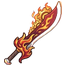
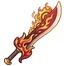
Trang bị: ghép lại găng Linh theo chú thích (1a→1b, 2a→2b), trả lưỡi đao Thần, găng Thánh xoá vòng sáng theo nét viền
Claude-Session: https://claude.ai/code/session_014A94BHnyL4tu48AS77QbVM

diff --git a/src/config/items.ts b/src/config/items.ts
@@ -190,7 +190,7 @@ export function weaponHoldSrc(it: Pick<ItemInst, 'weaponId' | 'tier'>, img = 'he
 }
 
 /** Đổi số này khi vẽ lại hình trang bị để trình duyệt tải bản mới */
-export const GEAR_ART_V = 16;
+export const GEAR_ART_V = 17;
 
 export interface BibaoDef {
   id: string;

diff --git a/tools/art/gear_from_ai.py b/tools/art/gear_from_ai.py
@@ -21,7 +21,7 @@ G3 = [(0, 0), (1, 0), (2, 0), (0, 1), (1, 1), (2, 1), (0, 2), (1, 2), (2, 2)]   
 BOXES = {
     1: [(50, 0, 294, 250), (389, 7, 627, 256), (723, 0, 970, 249), (1041, 37, 1309, 236), (1391, 8, 1625, 247),
         (1697, 45, 1975, 228), (34, 280, 303, 489), (1380, 271, 1632, 492), (1753, 263, 1941, 482)],
-    2: [(25, 7, 240, 244), (280, 7, 489, 243), (774, 6, 988, 244), (1100, 60, 1240, 250), (278, 258, 492, 494),
+    2: [(25, 7, 240, 244), (280, 7, 489, 243), (774, 6, 988, 244), (1000, 0, 1260, 260), (278, 258, 492, 494),
         (1256, 290, 1489, 468), (1505, 258, 1742, 496), (774, 263, 984, 490), (1795, 8, 1943, 236)],
     3: [(29, 6, 336, 249), (381, 8, 685, 247), (715, 0, 998, 251), (28, 263, 353, 487), (384, 255, 684, 495),
         (1683, 32, 1989, 240), (1053, 264, 1332, 492), (1385, 255, 1660, 500), (1729, 256, 1938, 500)],
@@ -43,22 +43,24 @@ ERASE = {(3, 'wp_bow'): [[(55, 30), (125, 30), (125, 100), (55, 100)],
 # quầng sáng nhạt giữa các vòng dây ngoài mặt ngọc (tâm x, y, bán kính, độ sáng tối thiểu) → trong suốt
 GLOW_OUT = {(6, 'accessory'): (122, 125, 86, 195)}
 # chỉ giữ phần trong đa giác (toạ độ trong hộp): găng Linh lấy CHIẾC BÊN PHẢI của cặp (chiếc trái lỗi hai đầu đều là nắm tay)
-KEEP_POLY = {(2, 'wp_fist'): [(55, 15), (90, 5), (127, 25), (132, 57), (110, 90), (80, 110), (77, 150), (65, 182), (2, 177),
-                              (0, 130), (15, 105), (22, 80), (42, 62), (52, 40)]}
+KEEP_POLY = {}
+OUTLINE_ADD = {(4, 'wp_blade'): 150}                                      # lấy thêm phần nằm trong nét viền đen (lưỡi đao sáng bị bỏ)
 OUTLINE_ONLY = set()                                                  # chỉ giữ phần nằm trong nét viền đen
 # xoá điểm sáng nhạt trong đa giác (vòng sáng xoáy quanh găng Thánh), giữ nét viền & thân găng
 PALE_ERASE = {(5, 'wp_fist'): [[(0, 85), (85, 85), (75, 125), (50, 150), (25, 170), (0, 170)],
-                               [(308, 140), (333, 140), (333, 280), (258, 280), (258, 262), (263, 222), (268, 183), (305, 170)],
-                               [(281, 166), (302, 158), (302, 184), (281, 184)], [(252, 236), (264, 236), (264, 258), (252, 258)]]}
+                               [(252, 236), (333, 236), (333, 264), (252, 264)]]}
+# xoá điểm sáng nhạt nằm bên phải nét viền đen ngoài cùng của từng hàng (vòng sáng bên phải găng Thánh): (y0, y1, x tối thiểu)
+RIGHT_OF_OUTLINE = {(5, 'wp_fist'): (100, 337, 200)}
 PALE_GAPS = {(2, 'accessory')}                                        # khe sáng nhạt giữa các nút thắt → trong suốt
 CORD = {(2, 'wp_spear'), (3, 'wp_spear')}                             # nối lại sợi dây mảnh treo tua bị rembg bỏ
-MIRROR_PAIR = {(2, 'wp_fist'): (0.08, 180)}                            # (độ chồng của 2 chiếc, góc xoay để nắm tay hướng lên)
+MIRROR_PAIR = {}                            # (độ chồng của 2 chiếc, góc xoay để nắm tay hướng lên)
 LINES = {(3, 'wp_bow'): [((48, 179), (248, 31), (215, 240, 246), 3)],   # dây cung Tiên bị đứt chỗ mũi tên cũ
          (2, 'wp_bow'): [((158, 58), (46, 177), (105, 160, 105), 2)]}
+ROTATE = {(2, 'wp_fist'): 180}                                        # xoay cho nắm tay hướng lên như các bậc khác
 FLOOD = {(5, 'wp_sword'): 70, (5, 'wp_blade'): 60}                    # lưỡi trắng gần như nền
 
 
-def cutout(crop, m, biggest=False, holes=False, flood_tol=0):
+def cutout(crop, m, biggest=False, holes=False, flood_tol=0, solid_holes=False):
     """crop: BGR; m: mặt nạ rembg (0..1) cùng hộp. Độ đục = mặt nạ; vùng gần trắng kẹp trong món đồ (khe cung, lỗ ngọc bội)
     → trong suốt; gỡ nền trắng ở mép (F = a·C + (1−a)·255 → C) để không còn viền trắng"""
     a = np.clip((m - 0.1) / 0.8, 0, 1)
@@ -83,7 +85,7 @@ def cutout(crop, m, biggest=False, holes=False, flood_tol=0):
         ring = cv2.dilate(comp.astype(np.uint8), k5).astype(bool) & ~comp
         wf = white[comp].mean()
         dark = (lum[ring] < 120).mean() if ring.any() else 0
-        bgish = wf > 0.75 and (dark > (0.25 if holes else 0.4) or (holes and st[i][4] > 60))
+        bgish = not solid_holes and wf > 0.75 and (dark > (0.25 if holes else 0.4) or (holes and st[i][4] > 60))
         if bgish: a[comp] = 0; bgm |= comp
         elif hole[comp].any() and not holes: a[comp] = np.maximum(a[comp], 1.0)
     if not holes:                                                       # mặt nạ mờ một nửa ở giữa món đồ (xén đen) → đặc hẳn
@@ -119,13 +121,59 @@ def cutout(crop, m, biggest=False, holes=False, flood_tol=0):
     return np.dstack([np.clip(c, 0, 255), a * 255]).astype(np.uint8)
 
 
+def piece(rgba, poly, M, size):
+    """cắt phần trong đa giác (toạ độ tuyệt đối trong ảnh mẫu, rgba bắt đầu từ 0,0) rồi biến đổi affine M sang khung size"""
+    m = np.zeros(rgba.shape[:2], np.uint8); cv2.fillPoly(m, [np.array(poly, np.int32)], 255)
+    m = cv2.GaussianBlur(m, (3, 3), 0)
+    pc = rgba.copy(); pc[..., 3] = (pc[..., 3].astype(int) * m // 255).astype(np.uint8)
+    return cv2.warpAffine(pc, M, size, flags=cv2.INTER_LINEAR, borderValue=(0, 0, 0, 0))
+
+
+def under(top, bottom):
+    """top đè lên bottom (RGBA uint8)"""
+    return np.array(Image.alpha_composite(Image.fromarray(bottom, 'RGBA'), Image.fromarray(top, 'RGBA')))
+
+
+def linh_fist(src, msk):
+    """Găng Linh: cặp găng mẫu có chiếc trái lỗi (2 đầu đều là nắm tay). Sửa theo chú thích:
+       đầu dưới chiếc trái (1b) ← nắm tay 1a của chiếc găng đơn (thu nhỏ); đầu trên chiếc trái (2b) ← cổ găng 2a của chiếc phải"""
+    H, W = src.shape[:2]
+    full = cutout(src, msk)                                             # toàn ảnh, toạ độ tuyệt đối
+    base = full.copy()
+    al = np.ascontiguousarray(base[..., 3])
+    cv2.fillPoly(al, [np.array([(1050, 118), (1060, 90), (1080, 40), (1105, 8), (1160, 8), (1190, 20), (1192, 64), (1160, 67), (1151, 72),
+                                (1144, 100), (1138, 125), (1128, 140), (1118, 155), (1105, 175), (1100, 218), (1015, 218),
+                                (1008, 150)], np.int32)], 0)                                       # bỏ nguyên chiếc trái
+    base[..., 3] = al
+    T = np.float32([[1, 0, -80], [0, 1, -37]])                          # 2a (cổ găng + vòng đai chiếc phải) → chỗ chiếc trái
+    p2 = piece(full, [(1150, 72), (1180, 66), (1215, 83), (1234, 110), (1226, 136), (1197, 161), (1136, 143), (1143, 125),
+                      (1149, 100)], T, (W, H))
+    M = cv2.getRotationMatrix2D((115, 380), 13, 0.6)                    # 1a: nắm tay găng đơn (kèm vòng đai, nằm dưới đai 2a)
+    M[0, 2] += 1085 - 115; M[1, 2] += 118 - 380
+    p1 = piece(full, [(30, 380), (70, 345), (110, 345), (175, 380), (175, 430), (160, 470), (130, 495), (60, 495), (15, 460)],
+               M, (W, H))
+    out = under(base, under(p1, p2))[0:260, 1000:1260]                  # chiếc phải nằm trên các mảnh ghép
+    # viền tối 2px quanh hình ghép (mép trái cổ găng mới không có nét viền)
+    solid = (out[..., 3] > 128).astype(np.uint8)
+    ring = cv2.dilate(solid, np.ones((5, 5), np.uint8)).astype(bool) & ~solid.astype(bool)
+    out[ring] = (18, 32, 24, 255)
+    return out
+
+
 def build(t, k, src, msk, box):
     x0, y0, x1, y1 = box
-    rgba = cutout(src[y0:y1, x0:x1], msk[y0:y1, x0:x1], (t, k) in ONLY_BIGGEST, holes=k == 'wp_bow', flood_tol=FLOOD.get((t, k), 0))
+    if (t, k) == (2, 'wp_fist'):
+        return linh_fist(src, msk)
+    rgba = cutout(src[y0:y1, x0:x1], msk[y0:y1, x0:x1], (t, k) in ONLY_BIGGEST, holes=k == 'wp_bow', flood_tol=FLOOD.get((t, k), 0),
+                  solid_holes=k in ('wp_sword', 'wp_blade'))
     crgb = src[y0:y1, x0:x1][..., ::-1].astype(float)
     al = np.ascontiguousarray(rgba[..., 3])
     if (t, k) in KEEP_POLY:
         km = np.zeros_like(al); cv2.fillPoly(km, [np.array(KEEP_POLY[(t, k)], np.int32)], 1); al = al * km
+    if (t, k) in OUTLINE_ADD:
+        dark = cv2.morphologyEx((crgb.mean(2) < OUTLINE_ADD[(t, k)]).astype(np.uint8), cv2.MORPH_CLOSE, np.ones((5, 5), np.uint8))
+        al = np.maximum(al, (ndimage.binary_fill_holes(dark) * 255).astype(np.uint8))
+        rgba[..., :3] = np.where((al > 0)[..., None] & (rgba[..., 3] < 250)[..., None], crgb, rgba[..., :3]).astype(np.uint8)
     if (t, k) in OUTLINE_ONLY:
         dark = cv2.morphologyEx((crgb.mean(2) < 110).astype(np.uint8), cv2.MORPH_CLOSE, np.ones((3, 3), np.uint8))
         inside = ndimage.binary_fill_holes(dark).astype(np.uint8)
@@ -136,6 +184,12 @@ def build(t, k, src, msk, box):
         pm = np.zeros_like(al)
         for poly in PALE_ERASE[(t, k)]: cv2.fillPoly(pm, [np.array(poly, np.int32)], 1)
         al[(pm == 1) & (crgb.min(2) > 150)] = 0
+    if (t, k) in RIGHT_OF_OUTLINE:
+        ya, yb, xm = RIGHT_OF_OUTLINE[(t, k)]
+        dk = crgb.mean(2) < 70
+        for y in range(ya, min(yb, al.shape[0])):
+            xs = np.nonzero(dk[y, xm:])[0]
+            if len(xs): al[y, xm + xs.max() + 1:] = 0
     if (t, k) in PALE_GAPS:
         pale = (crgb.min(2) > 175).astype(np.uint8)
         n, lab, st, _ = cv2.connectedComponentsWithStats(pale, connectivity=4)
@@ -189,6 +243,8 @@ def main():
             rgba = build(t, k, src, msk, (x0, y0, x1, y1))
             im = Image.fromarray(rgba, 'RGBA')
             im = im.crop(im.getchannel('A').point(lambda v: 255 if v > 60 else 0).getbbox())
+            if (t, k) in ROTATE:
+                im = im.rotate(ROTATE[(t, k)], expand=True)
             if (t, k) in MIRROR_PAIR:                                    # ghép đôi: chiếc găng đúng + bản lật gương của nó
                 ov, rot = MIRROR_PAIR[(t, k)]
                 im = im.rotate(rot, expand=True)
